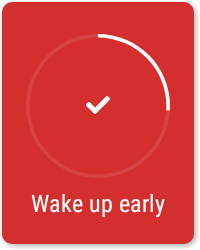
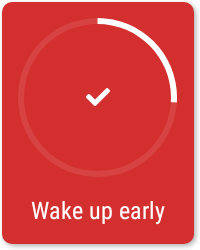
Small tweaks to CheckmarkWidget padding and aspect ratio

diff --git a/uhabits-android/src/main/java/org/isoron/uhabits/widgets/views/CheckmarkWidgetView.kt b/uhabits-android/src/main/java/org/isoron/uhabits/widgets/views/CheckmarkWidgetView.kt
@@ -39,6 +39,7 @@ import org.isoron.uhabits.utils.PaletteUtils.getAndroidTestColor
 import org.isoron.uhabits.utils.StyledResources
 import kotlin.math.max
 import kotlin.math.min
+import kotlin.math.roundToInt
 
 class CheckmarkWidgetView : HabitWidgetView {
     var activeColor: Int = 0
@@ -118,19 +119,25 @@ class CheckmarkWidgetView : HabitWidgetView {
         get() = R.layout.widget_checkmark
 
     override fun onMeasure(widthMeasureSpec: Int, heightMeasureSpec: Int) {
-        val width = MeasureSpec.getSize(widthMeasureSpec)
-        val height = MeasureSpec.getSize(heightMeasureSpec)
-        var textSize = 0.15f * height
-        val maxTextSize = getDimension(context, R.dimen.smallerTextSize)
-        textSize = min(textSize, maxTextSize)
+        var width = MeasureSpec.getSize(widthMeasureSpec)
+        var height = MeasureSpec.getSize(heightMeasureSpec)
+        if (height >= width) {
+            height = min(height, (width * 1.5).roundToInt())
+        } else {
+            width = min(width, height)
+        }
+        val textSize = min(0.2f * width, getDimension(context, R.dimen.smallerTextSize))
         label.setTextSize(TypedValue.COMPLEX_UNIT_PX, textSize)
         if (isNumerical) {
-            ring.setTextSize(textSize * 0.75f)
+            ring.setTextSize(textSize * 0.9f)
         } else {
             ring.setTextSize(textSize)
         }
-        ring.setThickness(0.15f * textSize)
-        super.onMeasure(widthMeasureSpec, heightMeasureSpec)
+        ring.setThickness(0.03f * width)
+        super.onMeasure(
+            MeasureSpec.makeMeasureSpec(width, MeasureSpec.EXACTLY),
+            MeasureSpec.makeMeasureSpec(height, MeasureSpec.EXACTLY)
+        )
     }
 
     private fun init() {
